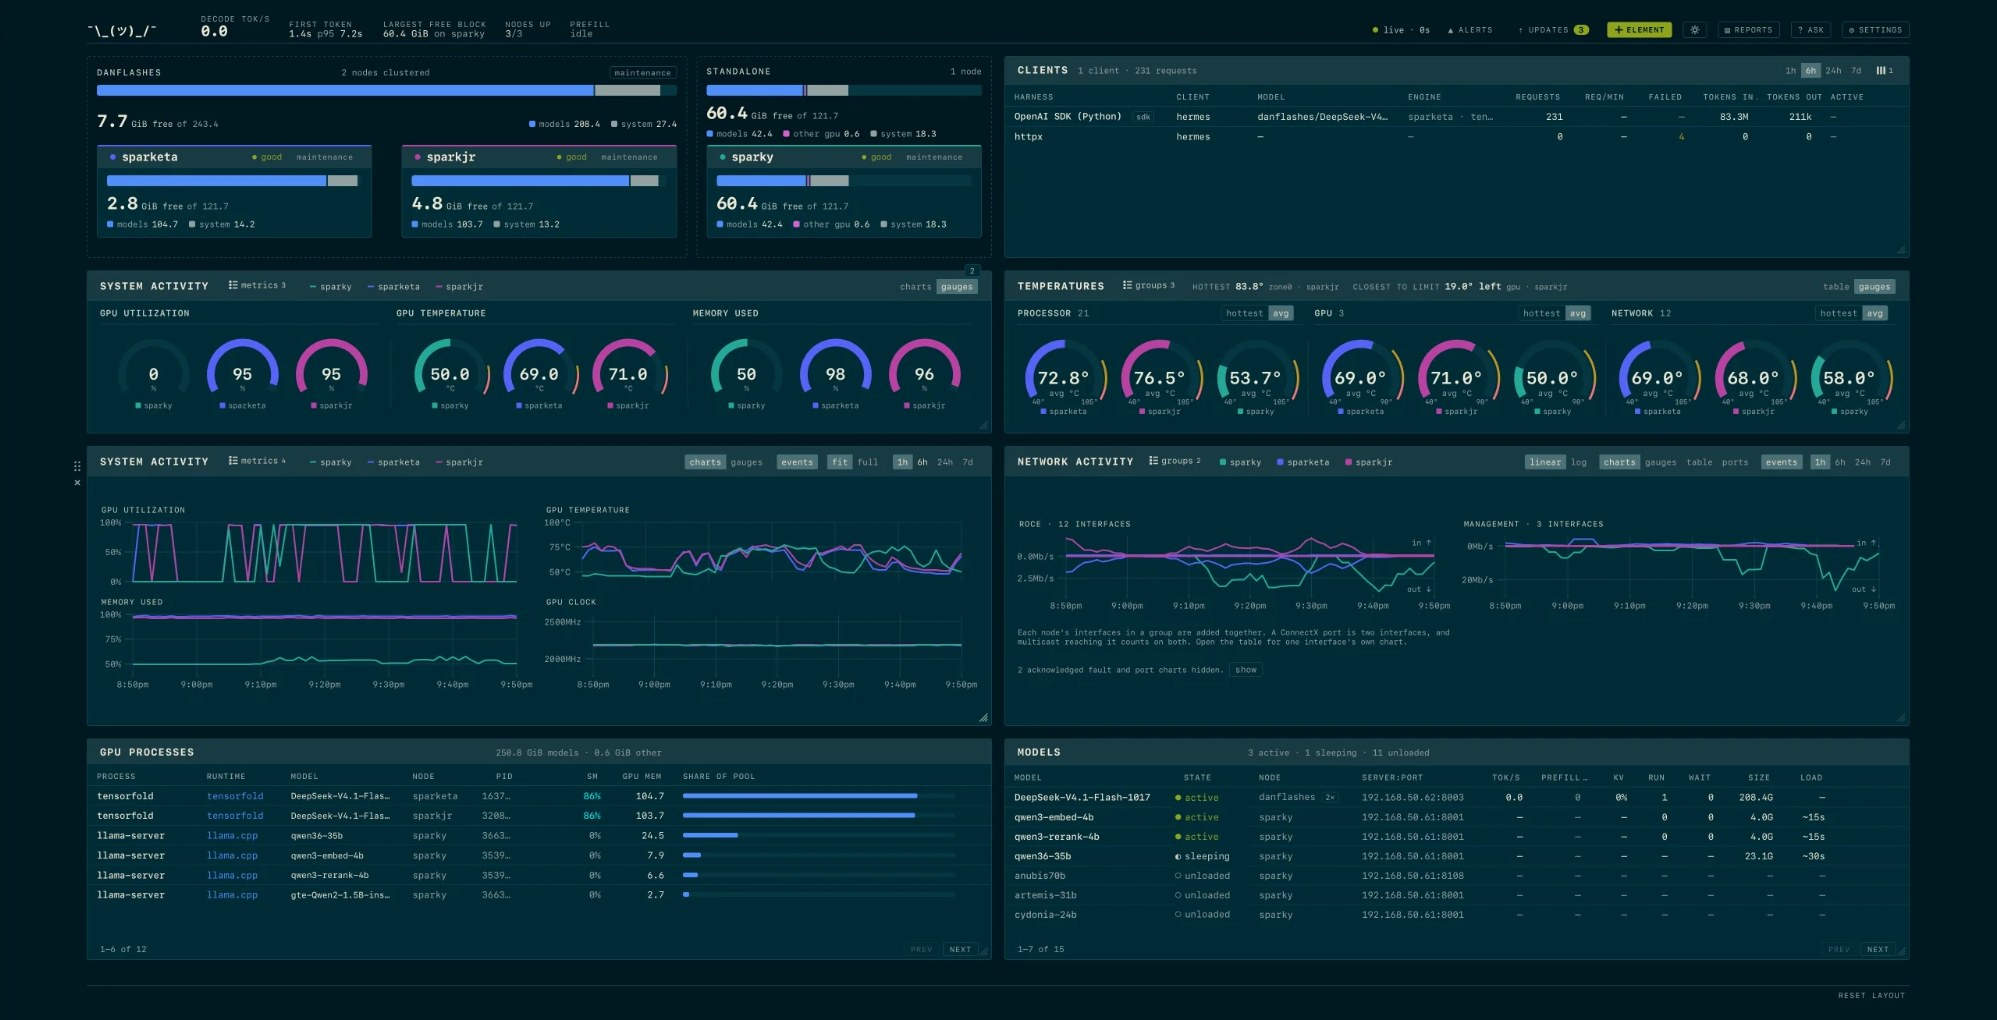
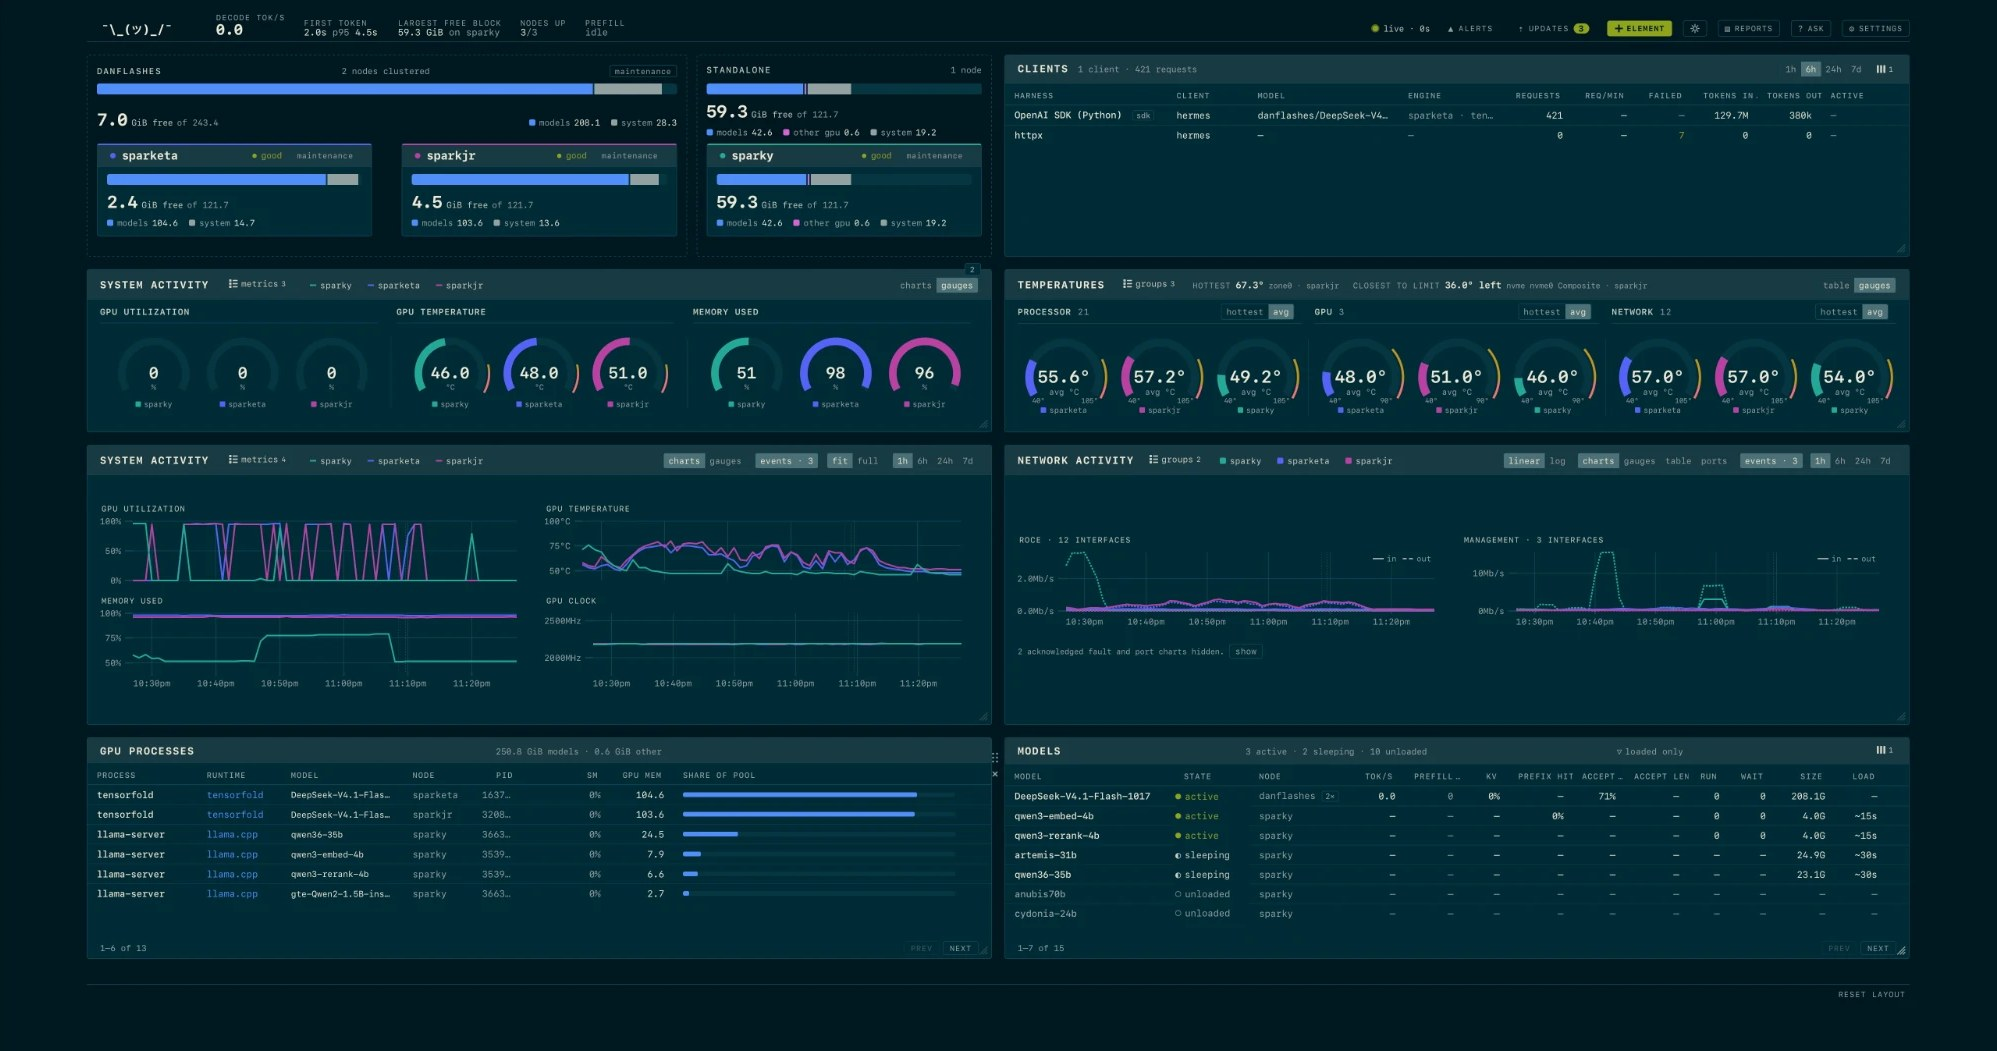
README: key image after CK, dashed network lines and the new Models columns
1997x1051 JPEG (quality 88, progressive), 3px window border trimmed from
the left. Alt text rewritten to match.

Claude-Session: https://claude.ai/code/session_01AXuBWPRTxSwWf1zyfK8pCa

diff --git a/README.md b/README.md
@@ -5,7 +5,7 @@ one node to a home cluster. GPU and system health, temperatures, network, and
 live metrics for the LLMs running on them: llama.cpp router, vLLM, SGLang and
 TensorFold.
 
-![The spark-dash dashboard in compact view, solarized theme: a pooled two-node cluster and a standalone node in their own frames, beside the Clients card with its callers' requests and tokens; System Activity as gauges, a dial per node for GPU utilisation, GPU temperature and memory used; Temperatures as gauges, processor, GPU and network averaged per node, each dial marked where it would turn amber and red; System Activity charting a metric per chart and a line per node; Network Activity charting RoCE and management traffic, received above the line and sent below; and the GPU process and model tables](Screenshot.jpg)
+![The spark-dash dashboard in compact view, solarized theme: a pooled two-node cluster and a standalone node in their own frames, beside the Clients card with its callers' requests and tokens; System Activity as gauges, a dial per node for GPU utilisation, GPU temperature and memory used; Temperatures as gauges, processor, GPU and network averaged per node, each dial marked where it would turn amber and red; System Activity charting a metric per chart and a line per node; Network Activity charting RoCE and management traffic, each node's received line solid and sent line dashed; the GPU process table; and the model table with prefix-cache hits and draft acceptance per model](Screenshot.jpg)
 
 ## What you get
 

diff --git a/docs/roadmap.md b/docs/roadmap.md
@@ -8721,8 +8721,8 @@ speculative-decoding acceptance rate, length and totals.
   corner chips, `mirrorRange` and CJ's `mirrorSplits`, `niceBelow` and arrows.
   `metric.dashed` takes a list. The log axis is now asinh from zero up, with
   decades thinned to 24px, and applies to any chart passed `log`.
-- [ ] README's screenshot still shows the mirrored chart; its alt text matches
-  that image until it is retaken.
+- [x] README's screenshot retaken after the deploy (dashed network lines, the
+  Models table's prefix hit and accept columns), alt text to match.
 
 ### J — Single-host profile (everything on one GB10)
 
